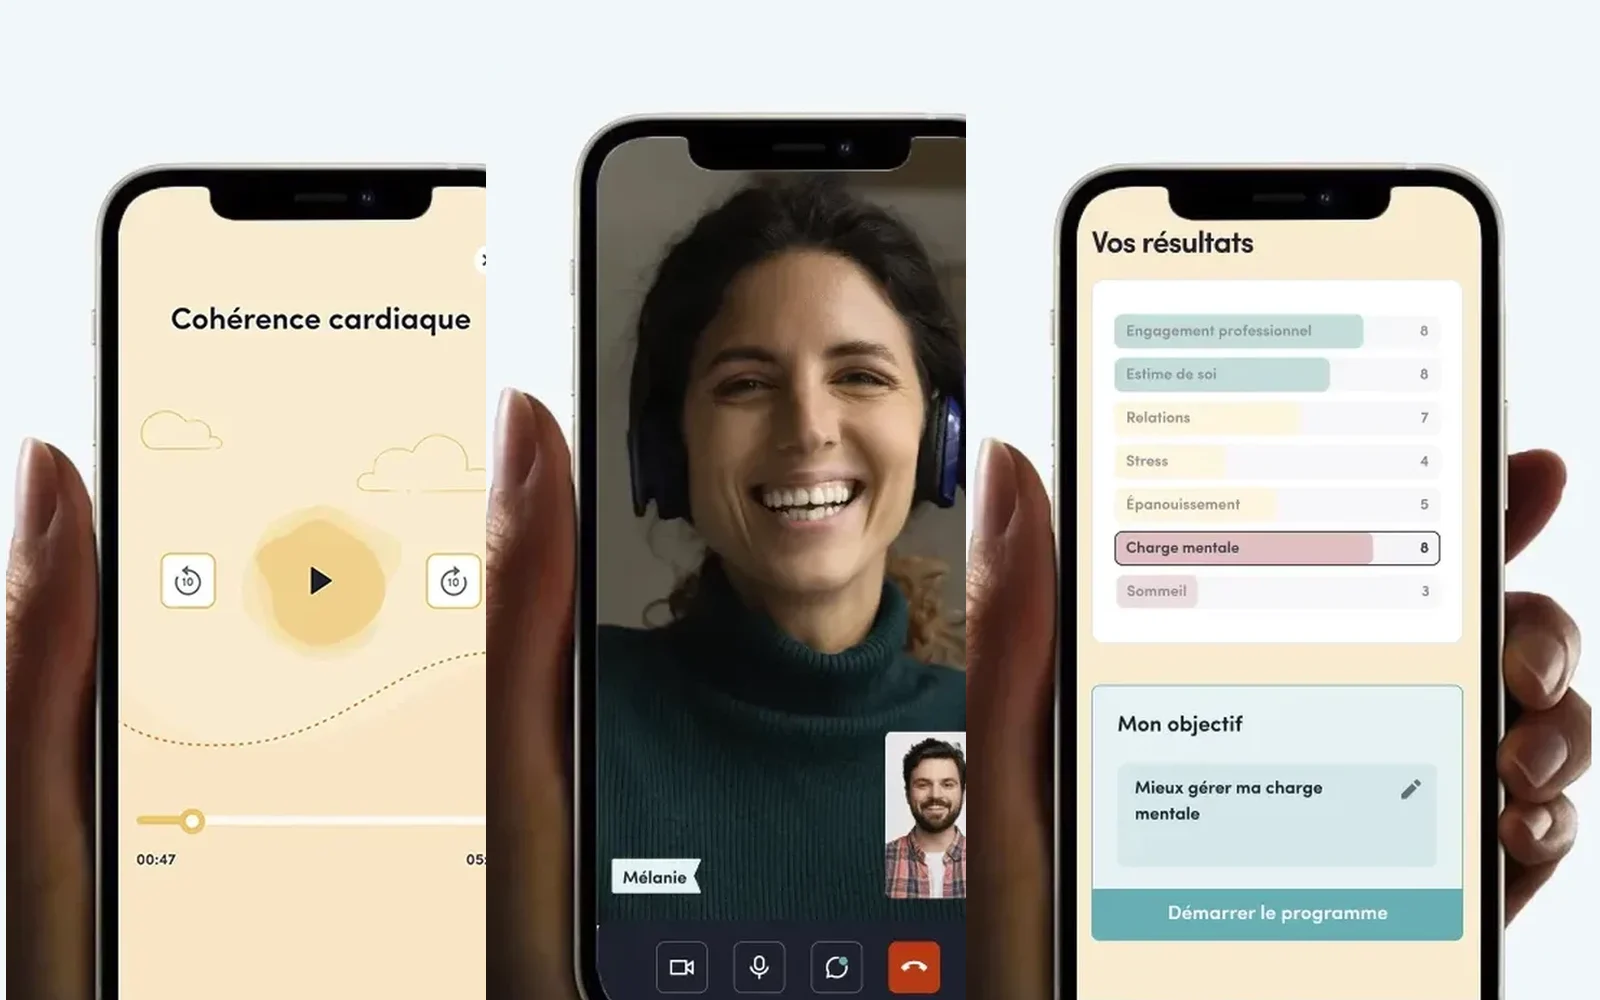
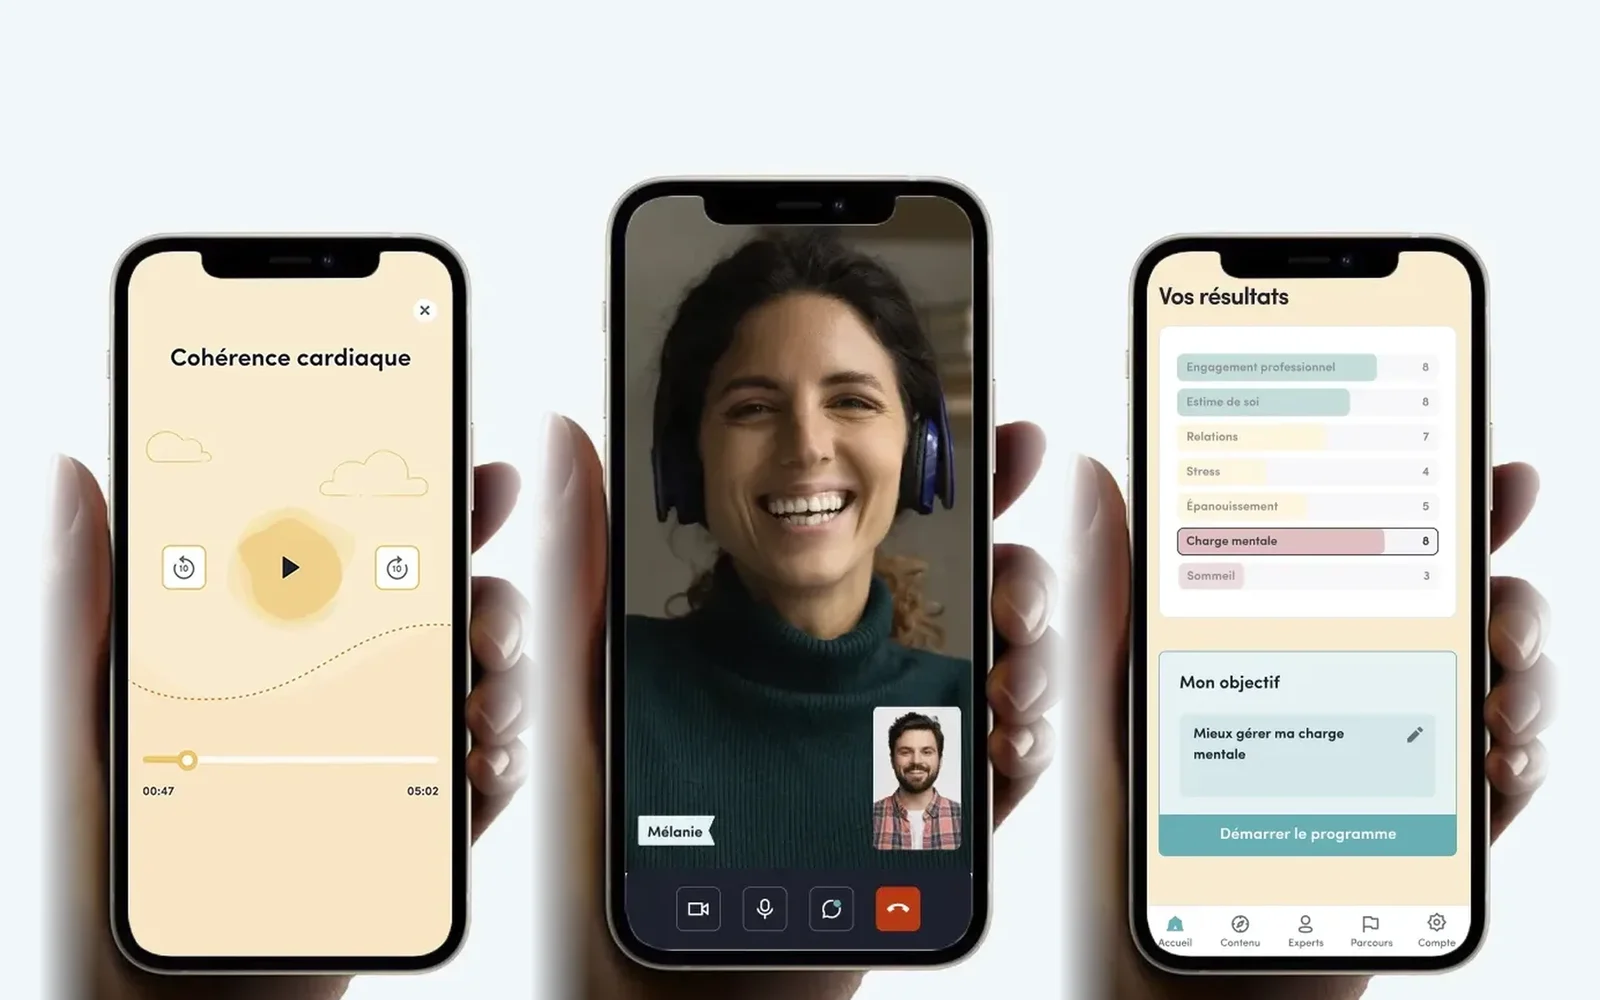
Holivia revamp

diff --git a/content/work/holivia.md b/content/work/holivia.md
@@ -7,9 +7,12 @@ order: 4
 summary: The whole frontend of a mental-health platform, designed and rebuilt — including a calming audio player and video calls with therapists, in vanilla JavaScript, CSS and HTML.
 stack: [Ruby on Rails, JavaScript, CSS, HTML]
 cover:
-  src: work/holivia/video-call.webp
-  alt: Holivia mobile app during a video call with a therapist, with camera, microphone, chat and hang-up controls.
+  src: work/holivia/cover.webp
+  alt: Three Holivia screens on phones — the audio player for a breathing session, a video call with a therapist, and wellbeing questionnaire results.
 gallery:
+  - src: work/holivia/video-call.webp
+    alt: Holivia mobile app during a video call with a therapist, with camera, microphone, chat and hang-up controls.
+    caption: Video calls with a therapist — familiar controls, a calmer setting.
   - src: work/holivia/audio-player.webp
     alt: Audio player for a "Cohérence cardiaque" breathing session, with a soft animated play button, clouds and a progress bar.
     caption: The audio player for guided sessions. The animations follow the relaxing pace of the content.
